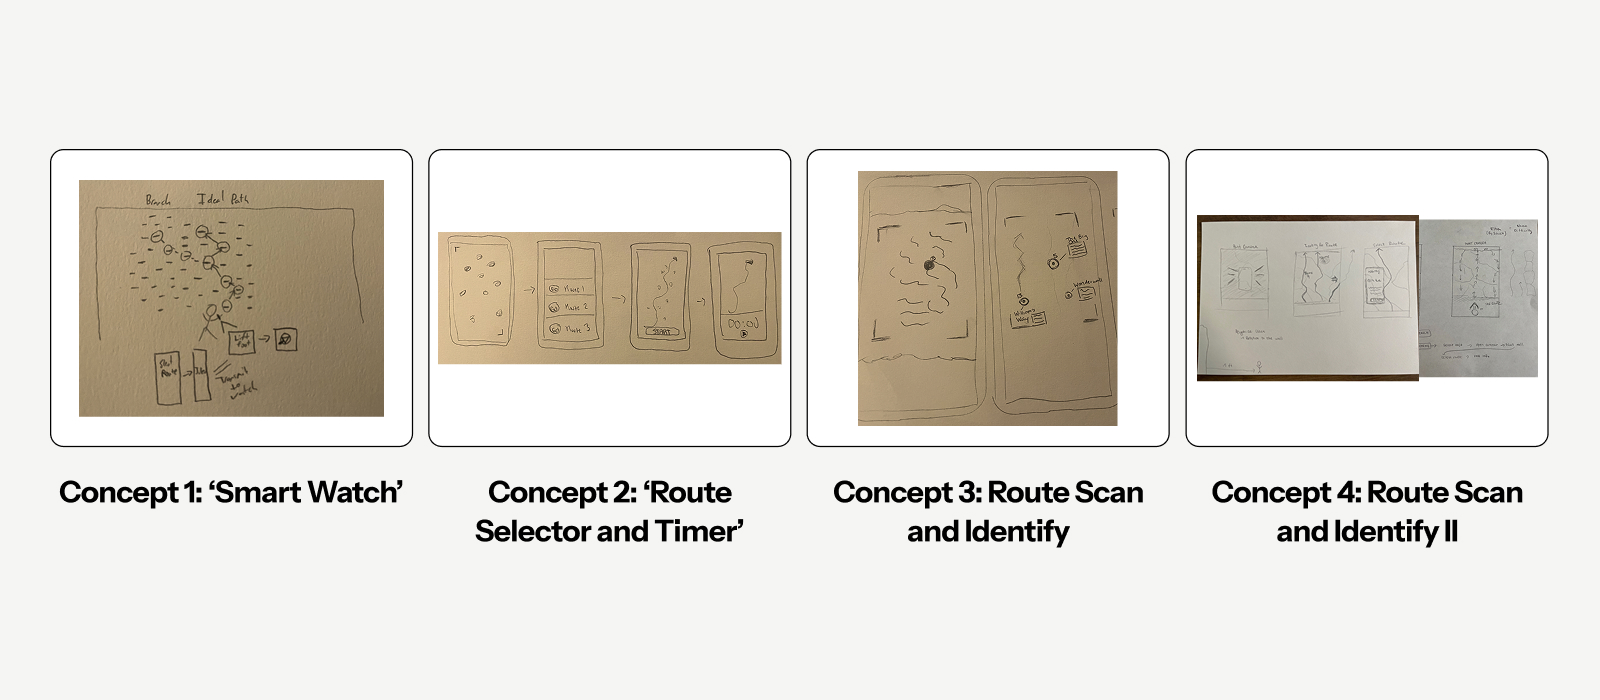
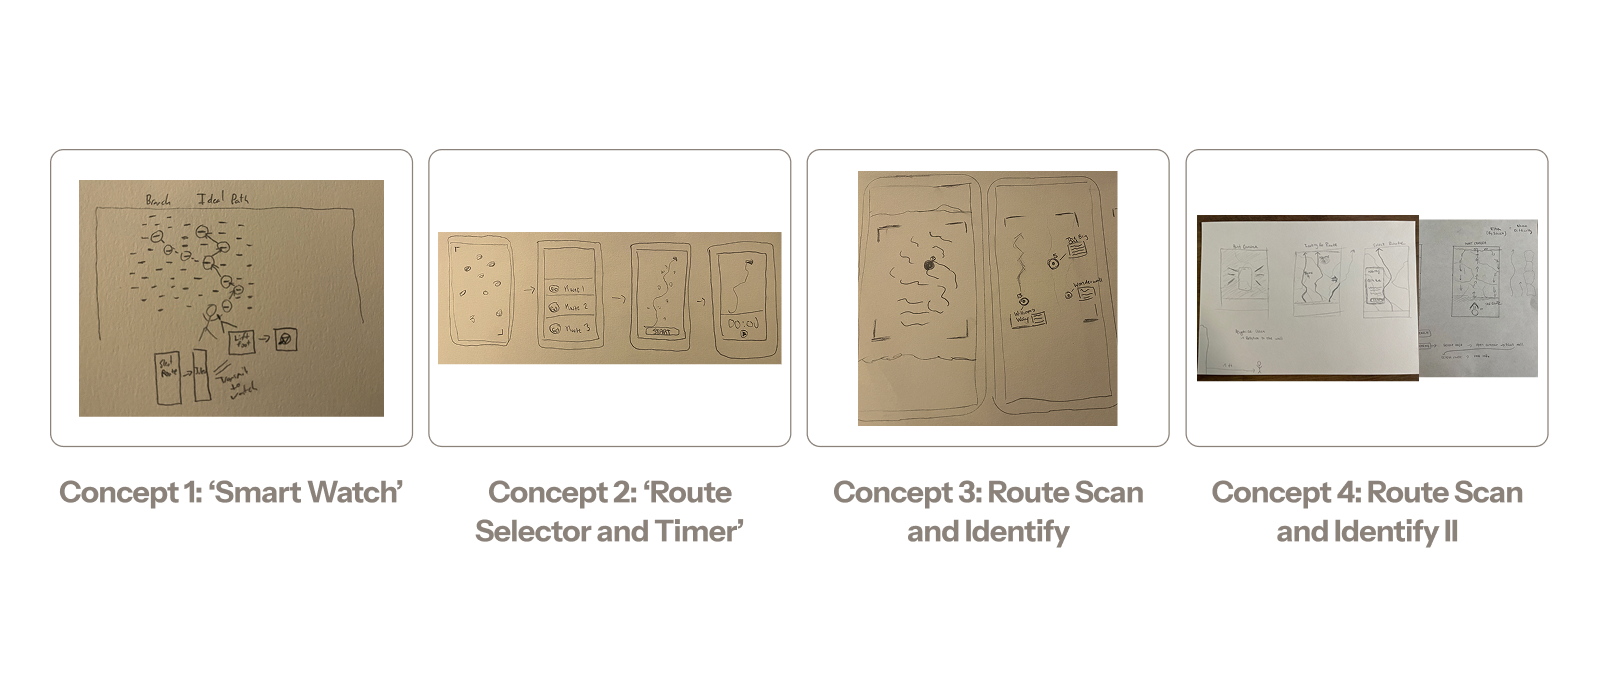
Add files via upload

diff --git a/index.html b/index.html
@@ -1363,7 +1363,7 @@
       </div>
     </div>
 
-    <div class="cs-placeholder">Affinity diagram, feature prioritization &amp; storyboard — image coming soon</div>
+    <img src="climbon-affinity-diagram.jpg" alt="ClimbOn affinity diagram, feature prioritization &amp; storyboard" class="cs-cover" style="margin-bottom:16px;">
   </div>
 
   <div class="cs-section reveal" id="cs-define">
@@ -1399,25 +1399,25 @@
     <h2 class="cs-h2">From rough sketches to a "groundbreaking" prototype.</h2>
     <p class="cs-body">We explored four concepts — from a smartwatch integration to AR route scanning — and narrowed down to the most viable solution through user testing at each fidelity level.</p>
 
-    <div class="cs-placeholder">Concept sketches — image coming soon</div>
+    <img src="climbon-sketches.jpg" alt="ClimbOn concept sketches" class="cs-cover" style="margin-bottom:16px;">
 
     <div class="cs-iteration">
       <p class="cs-iteration-label">Homescreen Iteration</p>
       <p class="cs-body">Screens evolved through lo-fi and mid-fi testing. The final homescreen simplified navigation to two primary actions: Near Me and Scan Rocks.</p>
     </div>
-    <div class="cs-placeholder cs-img-half">Homescreen iterations — image coming soon</div>
+    <img src="climbon-homescreen-iterations.jpg" alt="ClimbOn homescreen iterations" class="cs-cover" style="aspect-ratio:4/3; margin-bottom:16px;">
 
     <div class="cs-iteration">
       <p class="cs-iteration-label">Route Card Iteration</p>
       <p class="cs-body">Early route cards included activity level indicators and hashtags — users found neither helpful since they'd already be at the site. We stripped these and focused on what climbers actually needed: hold types, ratings, and route description.</p>
     </div>
-    <div class="cs-placeholder cs-img-half">Route card iterations — image coming soon</div>
+    <img src="climbon-route-card-iterations.jpg" alt="ClimbOn route card iterations" class="cs-cover" style="aspect-ratio:4/3; margin-bottom:16px;">
 
     <div class="cs-iteration">
       <p class="cs-iteration-label">A/B Test — Beta Toggle</p>
       <p class="cs-body">Users were split on seeing route beta (hold labels) in the AR view. Some found it helpful; others considered it "cheating." Our solution: an optional toggle so climbers could choose their own experience.</p>
     </div>
-    <div class="cs-placeholder cs-img-half">Beta toggle A/B test — image coming soon</div>
+    <img src="climbon-beta-toggle-test.jpg" alt="ClimbOn beta toggle A/B test" class="cs-cover" style="aspect-ratio:4/3; margin-bottom:16px;">
   </div>
 
   <div class="cs-section reveal">
@@ -1448,13 +1448,13 @@
     </div>
 
     <p class="cs-img-label">01 — Onboarding</p>
-    <div class="cs-placeholder">Onboarding flow — image coming soon</div>
+    <img src="climbon-flow-onboarding.jpg" alt="ClimbOn onboarding flow" class="cs-cover" style="margin-bottom:16px;">
     <p class="cs-img-label">02 — Near Me &amp; Routes</p>
-    <div class="cs-placeholder">Routes flow — image coming soon</div>
+    <img src="climbon-flow-routes.jpg" alt="ClimbOn routes flow" class="cs-cover" style="margin-bottom:16px;">
     <p class="cs-img-label">03 — Scan Rocks</p>
-    <div class="cs-placeholder">Scan Rocks flow — image coming soon</div>
+    <img src="climbon-flow-scan.jpg" alt="ClimbOn scan rocks flow" class="cs-cover" style="margin-bottom:16px;">
     <p class="cs-img-label">04 — ClimbList</p>
-    <div class="cs-placeholder">ClimbList flow — image coming soon</div>
+    <img src="climbon-flow-list.jpg" alt="ClimbOn ClimbList flow" class="cs-cover" style="margin-bottom:16px;">
   </div>
 
   <div class="cs-section reveal">
